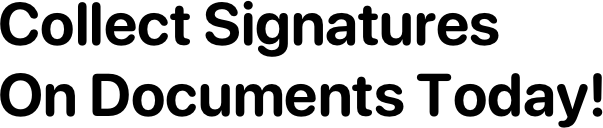
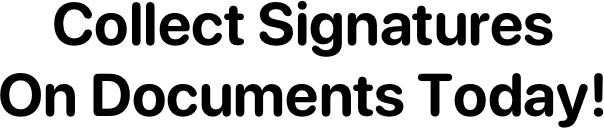
minor image updates

diff --git a/app/templates/client/index.html b/app/templates/client/index.html
@@ -14,19 +14,22 @@
 <div class="container-fluid">
     <div class="row ms-5">
         <div class="col">
-            <h1 class="my-5"><img src="{{ url_for('static', filename='img/adobe_fill_sign_logo.png') }}"
-                    alt="Acrobat Sign Logo" style="width:50px;height:50px; display: inline"> Adobe Acrobat Sign</h1>
-
-            <img class="my-8" src="{{ url_for('static', filename='img/home_text.png') }}"
-                alt="Collect Signatures on Documents Today">
-
-            <p class="my-5" style="color:rgb(180, 139, 255)" align="center"><strong>eSignature is a method of collecting
-                    a signature(s) on a
-                    document through electronic means, rather than
-                    physically sending & signing paper.
-                    To electronically sign a document, a signer navigates to a secure website and completes a series of
-                    acknowledgements meant to verify their identity and intent to sign the document(s).</strong>
-            </p>
+            <div class="mb-5 mt-3">
+                <img class="me-2" src="{{ url_for('static', filename='img/adobe_fill_sign_logo.png') }}"
+                        alt="Acrobat Sign Logo" style="width:50px;height:50px;"> 
+                <span style="vertical-align: middle; font-size: 250%; font-weight: bold;">Adobe Acrobat Sign</span>
+            </div>
+            <div align="center">
+                <img class="my-8" src="{{ url_for('static', filename='img/home_text.png') }}"
+                    alt="Collect Signatures on Documents Today">
+                <p class="my-5" style="color:rgb(180, 139, 255)"><strong>eSignature is a method of collecting
+                        a signature(s) on a
+                        document through electronic means, rather than
+                        physically sending & signing paper.
+                        To electronically sign a document, a signer navigates to a secure website and completes a series of
+                        acknowledgements meant to verify their identity and intent to sign the document(s).</strong>
+                </p>
+            </div>
             <div align="center">
                 <!-- Button trigger Acrobat Links modal -->
                 <button type="button" class="btn btn-outline-primary btn-lg mt-3 mx-3" data-bs-toggle="modal"
